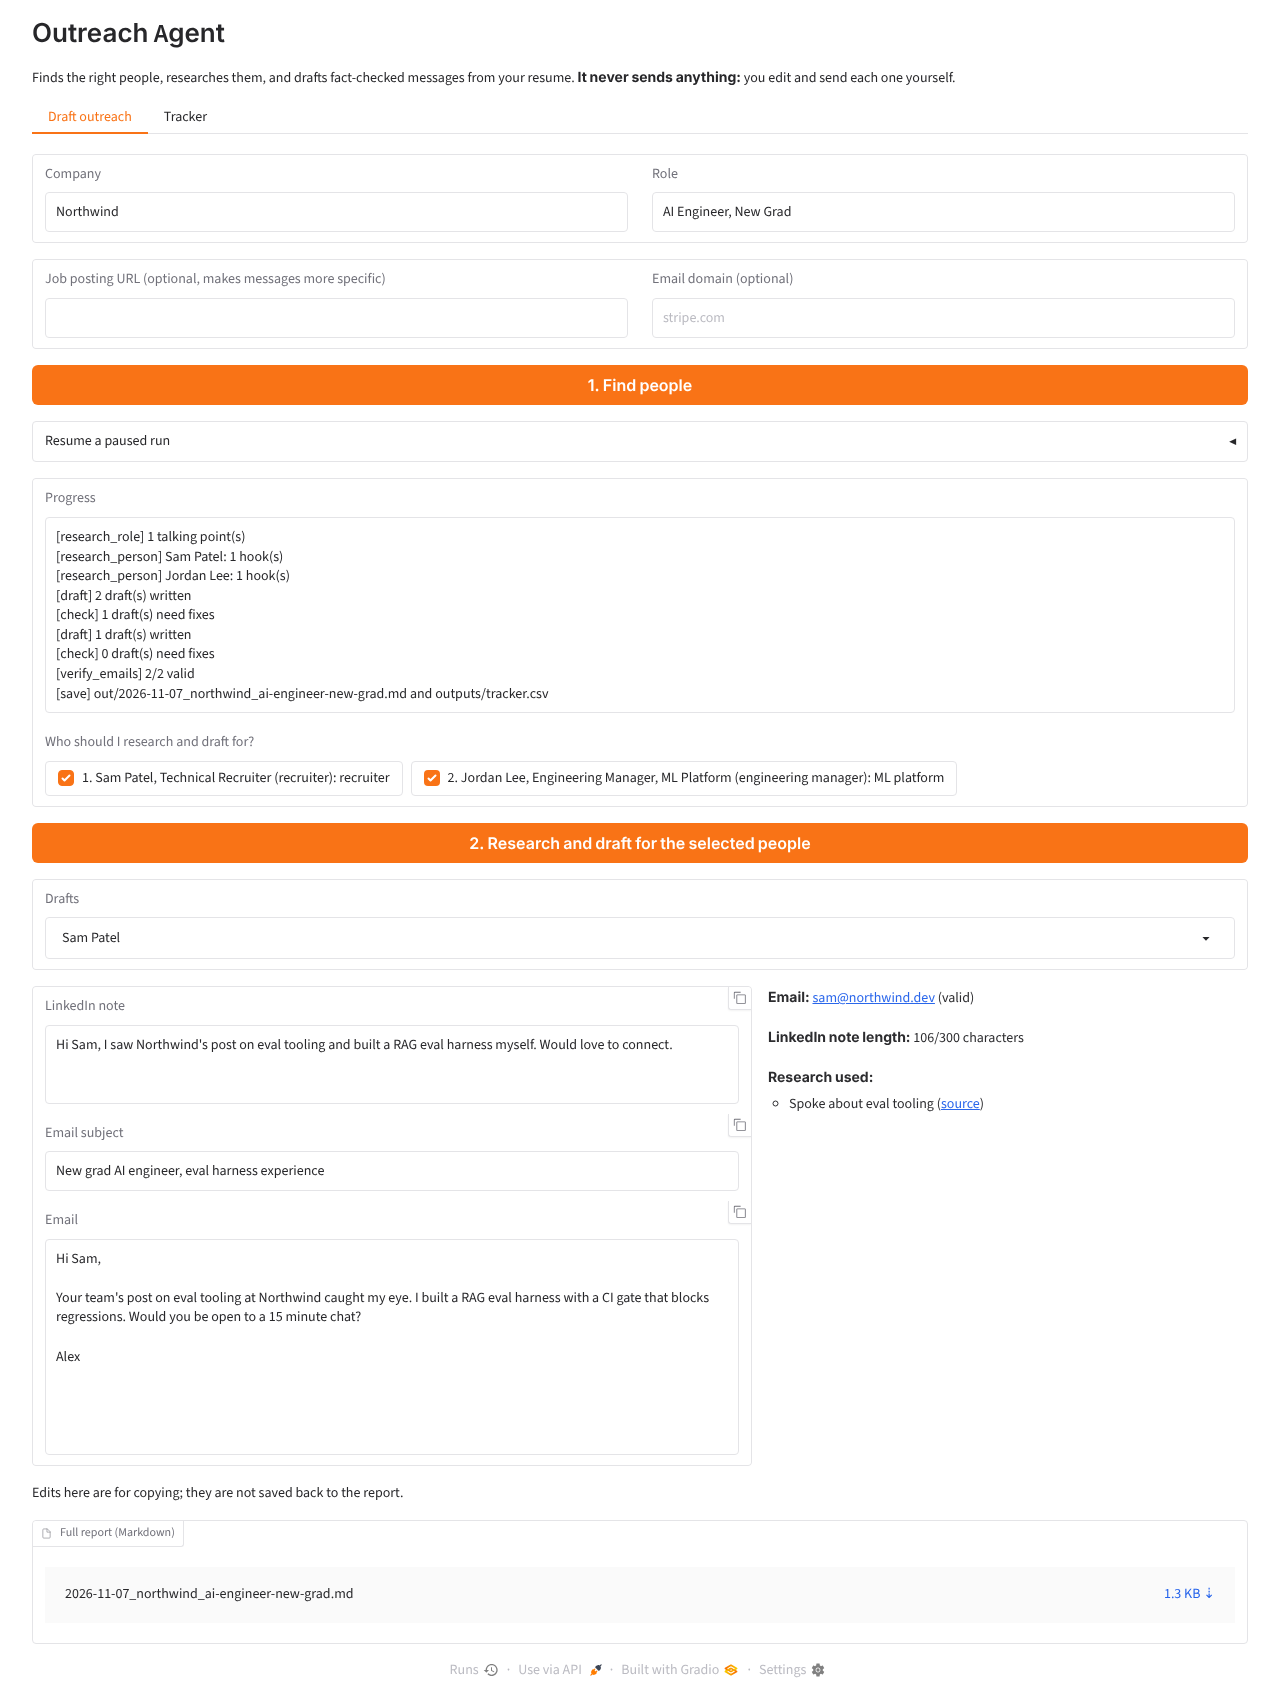
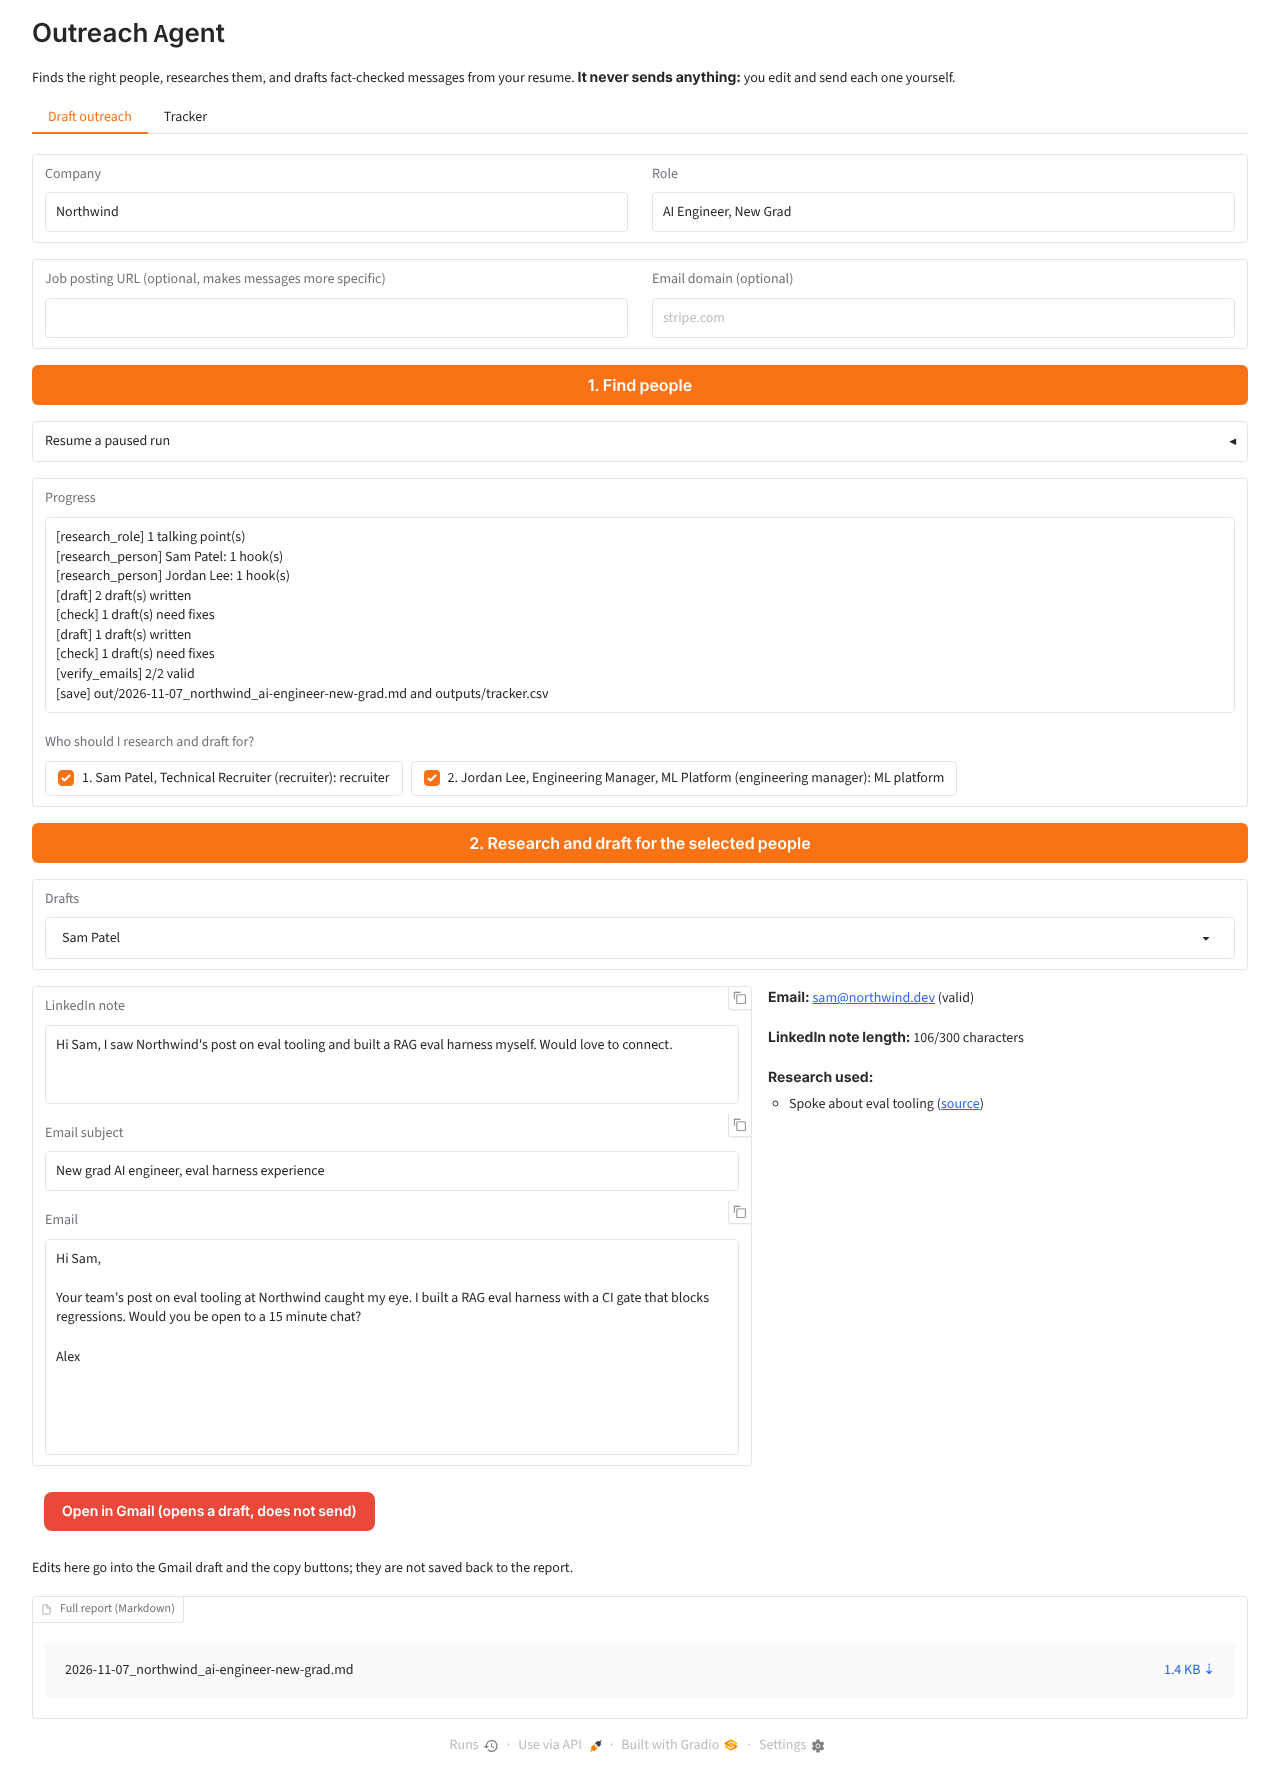
Add Open in Gmail button; require hooks to name an artifact found in the cited result
- UI: prefilled Gmail compose link built from the edited text, opens in a new tab, never sends;
  locked while the checker still flags an unedited draft; warns on unverified addresses
- Hooks now carry the artifact title, kept only if it appears in the cited result's title or snippet
- Person and draft prompts reject vague activity, pretended familiarity and intensifiers
- GMAIL_ACCOUNT setting; 4 new tests

Claude-Session: https://claude.ai/code/session_01V6XwhnjSrYYAdagCvEztPY

diff --git a/outreach_agent/ui.py b/outreach_agent/ui.py
@@ -10,6 +10,8 @@ or the command line.
 """
 
 import csv
+import html
+from urllib.parse import quote, urlencode
 from contextlib import AbstractAsyncContextManager
 from typing import Callable
 
@@ -85,6 +87,43 @@ def draft_fields(result: dict, name: str) -> tuple[str, str, str, str]:
     return note, d.get("email_subject", ""), d.get("email_body", ""), "\n\n".join(sections)
 
 
+GMAIL_COMPOSE = "https://mail.google.com/mail/"
+
+
+def gmail_compose_url(to: str, subject: str, body: str, account: str = "") -> str:
+    """A Gmail link that opens a filled-in compose window. Gmail never sends from a link: you press Send."""
+    params = {"view": "cm", "fs": "1", "to": to, "su": subject, "body": body}
+    if account:
+        params["authuser"] = account          # which signed-in Google account to open
+    return GMAIL_COMPOSE + "?" + urlencode(params, quote_via=quote)
+
+
+def compose_button(result: dict, name: str | None, subject: str, body: str, account: str = "") -> str:
+    """HTML for the 'Open in Gmail' button, or the reason it isn't available.
+    A draft the checker still flags stays locked until its subject or body has been edited."""
+    if not name:
+        return ""
+    person = next((p for p in result.get("selected", []) if p["name"] == name), {})
+    if not person.get("email"):
+        return f"<p>No email address found for {html.escape(name)}. Copy the message instead.</p>"
+    draft = result.get("drafts", {}).get(name, {})
+    flagged = result.get("feedback", {}).get(name)
+    edited = (subject, body) != (draft.get("email_subject", ""), draft.get("email_body", ""))
+    if flagged and not edited:
+        return ("<p><b>Gmail is locked for this draft:</b> the checker still flags it (see the right column). "
+                "Edit the subject or email to fix those points and the button appears.</p>")
+    notes = []
+    if flagged:
+        notes.append("You edited a flagged draft. Reread it before sending.")
+    if person.get("email_status") != "valid":
+        notes.append(f"This address is {html.escape(person.get('email_status') or 'unverified')}, so it may bounce.")
+    url = html.escape(gmail_compose_url(person["email"], subject, body, account), quote=True)
+    link = (f'<a href="{url}" target="_blank" rel="noopener noreferrer" '
+            'style="display:inline-block;padding:10px 18px;border-radius:8px;background:#ea4335;color:#fff;'
+            'font-weight:600;text-decoration:none">Open in Gmail (opens a draft, does not send)</a>')
+    return link + "".join(f"<p>{n}</p>" for n in notes)
+
+
 def tracker_rows(settings: Settings) -> list[list[str]]:
     path = settings.outputs / "tracker.csv"
     if not path.exists():
@@ -136,11 +175,18 @@ def build_app(runner: OutreachRunner):
         first = names[0] if names else None
         fields = draft_fields(result, first) if first else ("", "", "", "")
         report = result.get("report_path")
+        gmail = compose_button(result, first, fields[1], fields[2], runner.settings.gmail_account)
         return (status, gr.Column(visible=bool(names)), gr.Dropdown(choices=names, value=first), *fields,
-                report, tracker_rows(runner.settings), {**session, "result": result})
+                gmail, report, tracker_rows(runner.settings), {**session, "result": result})
 
     def on_pick(name, session):
-        return draft_fields((session or {}).get("result", {}), name) if name else ("", "", "", "")
+        result = (session or {}).get("result", {})
+        fields = draft_fields(result, name) if name else ("", "", "", "")
+        return (*fields, compose_button(result, name, fields[1], fields[2], runner.settings.gmail_account))
+
+    def on_edit(name, subject_text, body_text, session):
+        return compose_button((session or {}).get("result", {}), name, subject_text, body_text,
+                              runner.settings.gmail_account)
 
     with gr.Blocks(title="Outreach Agent") as app:
         gr.Markdown("# Outreach Agent\nFinds the right people, researches them, and drafts fact-checked "
@@ -169,9 +215,10 @@ def build_app(runner: OutreachRunner):
                         note = gr.Textbox(label="LinkedIn note", lines=3, buttons=["copy"])
                         subject = gr.Textbox(label="Email subject", buttons=["copy"])
                         body = gr.Textbox(label="Email", lines=10, buttons=["copy"])
+                        gmail = gr.HTML()
                     with gr.Column(scale=2):
                         notes = gr.Markdown()
-                gr.Markdown("Edits here are for copying; they are not saved back to the report.")
+                gr.Markdown("Edits here go into the Gmail draft and the copy buttons; they are not saved back to the report.")
                 report = gr.File(label="Full report (Markdown)")
 
         with gr.Tab("Tracker"):
@@ -182,8 +229,10 @@ def build_app(runner: OutreachRunner):
         find.click(on_find, [company, role, job_url, domain], [status, picks, draft, session])
         load.click(on_load, [run_id], [status, picks, draft, session])
         draft.click(on_draft, [picks, session],
-                    [status, drafts_box, contact, note, subject, body, notes, report, tracker, session])
-        contact.change(on_pick, [contact, session], [note, subject, body, notes])
+                    [status, drafts_box, contact, note, subject, body, notes, gmail, report, tracker, session])
+        contact.change(on_pick, [contact, session], [note, subject, body, notes, gmail])
+        subject.change(on_edit, [contact, subject, body, session], [gmail])
+        body.change(on_edit, [contact, subject, body, session], [gmail])
     return app
 
 

diff --git a/outreach_agent/prompts.py b/outreach_agent/prompts.py
@@ -14,13 +14,19 @@ For each candidate, choose a category:
 Prefer people whose title matches the role's area (e.g. ML roles -> ML/AI engineering leaders).
 Return at most {max_people} non-skip picks, best first."""
 
-PERSON_PROMPT = """From these web search results, find up to 3 specific, PROFESSIONAL hooks about {name}
-({position} at {company}) that a job seeker could mention in a short message: talks, blog posts,
-podcasts, open-source work, launches they led, interviews.
-Rules:
-- Only use results that are clearly about THIS person at THIS company. Same-name strangers are common.
-- Nothing personal (family, health, location, politics, hobbies). Professional work only.
-- Every hook must cite a URL from the results. If nothing reliable is found, return no hooks."""
+PERSON_PROMPT = """From these web search results, find up to 3 hooks about {name} ({position} at {company})
+that a job seeker could mention in a short message.
+
+A hook is a specific, checkable piece of their professional work: a talk, blog post, podcast episode,
+open-source repository, paper or launch they led. It must have a name or title, and you must copy that
+title word for word from the result into `artifact`.
+
+Not hooks (return nothing for these): job descriptions or responsibilities ("oversees engineering",
+"focuses on AI solutions"), vague activity ("participated in discussions", "is involved in"), company
+news that doesn't name this person, and anything personal (family, health, location, politics, hobbies).
+
+Only use results clearly about THIS person at THIS company; same-name strangers are common.
+Fewer hooks is better than weak ones. If nothing qualifies, return no hooks."""
 
 ROLE_PROMPT = """Summarize what a candidate should know about the "{role}" role at {company}, from the
 material below (a job posting and/or search results). Only use facts in the material, and put the
@@ -34,6 +40,9 @@ Rules:
   experience, numbers, mutual connections or familiarity ("I've followed your work for years").
 - Open with ONE specific hook about the person or their team (from the research). If there are no
   hooks, use a specific fact about the team or role instead. Never pretend to know them.
+- Refer to a hook by naming it (e.g. your post "Title"). Don't claim you watched, attended, noticed
+  or were struck by it, and don't describe it beyond what the research says.
+- Describe the candidate's work exactly as the profile does. No intensifiers ("deeply", "extensively").
 - Connect it to ONE or TWO relevant points from the candidate's resume, matched to the role.
 - End with ONE small, clear ask:
     recruiter -> whether they're the right person for the {role} role, or a short chat about fit;

diff --git a/outreach_agent/graph.py b/outreach_agent/graph.py
@@ -9,6 +9,7 @@
 import asyncio
 import hashlib
 import json
+import re
 from pathlib import Path
 
 from langgraph.graph import END, START, StateGraph
@@ -34,6 +35,24 @@ def read_resume(path: Path) -> str:
         from pypdf import PdfReader
         return "\n".join(page.extract_text() or "" for page in PdfReader(path).pages)
     return path.read_text()
+
+
+def _norm(text: str) -> str:
+    return " ".join(re.sub(r"[^\w]+", " ", text.lower()).split())
+
+
+def grounded_hooks(found: PersonResearch, results: list[dict]) -> list[dict]:
+    """Keep a hook only if the model is sure it found the right person, the cited URL was actually
+    retrieved, and the artifact's title appears in that result's title or snippet."""
+    if not found.same_person_confident:
+        return []
+    text_by_url = {r["url"]: _norm(f'{r.get("title", "")} {r.get("snippet", "")}') for r in results}
+    kept = []
+    for h in found.hooks:
+        artifact = _norm(h.artifact)
+        if h.source_url in text_by_url and len(artifact) >= 3 and artifact in text_by_url[h.source_url]:
+            kept.append(h.model_dump())
+    return kept
 
 
 def build_graph(people: Tools, research: Tools, llm: StructuredLLM, settings: Settings,
@@ -143,10 +162,7 @@ def build_graph(people: Tools, research: Tools, llm: StructuredLLM, settings: Se
             {"role": "system", "content": prompts.PERSON_PROMPT.format(
                 name=p["name"], position=p.get("position"), company=company)},
             {"role": "user", "content": json.dumps(results)}], PersonResearch)
-        # A hook must cite a URL we actually retrieved, and only if the model is sure it's the same person.
-        valid_urls = {r["url"] for r in results}
-        hooks = ([h.model_dump() for h in found.hooks if h.source_url in valid_urls]
-                 if found.same_person_confident else [])
+        hooks = grounded_hooks(found, results)
         log(f"  [research_person] {p['name']}: {len(hooks)} hook(s)")
         return {"research": [{"name": p["name"], "hooks": hooks, "summary": found.summary}]}
 

diff --git a/tests/test_ui.py b/tests/test_ui.py
@@ -61,3 +61,42 @@ def test_app_builds(runner):
 
     app = build_app(runner)
     assert app.title == "Outreach Agent"
+
+
+def test_gmail_url_encodes_everything():
+    from urllib.parse import parse_qs, urlparse
+
+    from outreach_agent.ui import gmail_compose_url
+
+    url = gmail_compose_url("a@b.dev", "Hi & welcome", "Line one\n\nLine two: 100% sure?", "me@gmail.com")
+    q = parse_qs(urlparse(url).query)
+    assert url.startswith("https://mail.google.com/mail/?")
+    assert q == {"view": ["cm"], "fs": ["1"], "to": ["a@b.dev"], "su": ["Hi & welcome"],
+                 "body": ["Line one\n\nLine two: 100% sure?"], "authuser": ["me@gmail.com"]}
+
+
+RESULT = {
+    "selected": [{"name": "Jordan Lee", "email": "jordan@northwind.dev", "email_status": "valid"},
+                 {"name": "Sam Patel", "email": None},
+                 {"name": "Casey Morgan", "email": "casey@northwind.dev", "email_status": "accept_all"}],
+    "drafts": {"Jordan Lee": {"email_subject": "Hello", "email_body": "Body"},
+               "Casey Morgan": {"email_subject": "Hi", "email_body": "Text"}},
+    "feedback": {"Jordan Lee": ["Embellished claim"]},
+}
+
+
+def test_gmail_button_locked_while_flagged_draft_is_unedited():
+    from outreach_agent.ui import compose_button
+
+    assert "locked" in compose_button(RESULT, "Jordan Lee", "Hello", "Body")
+    edited = compose_button(RESULT, "Jordan Lee", "Hello", "Body, fixed")
+    assert "mail.google.com" in edited and "Reread it" in edited and 'target="_blank"' in edited
+
+
+def test_gmail_button_without_email_or_with_unverified_email():
+    from outreach_agent.ui import compose_button
+
+    assert "No email address" in compose_button(RESULT, "Sam Patel", "", "")
+    unverified = compose_button(RESULT, "Casey Morgan", "Hi", "Text")
+    assert "mail.google.com" in unverified and "accept_all" in unverified
+    assert compose_button(RESULT, None, "", "") == ""

diff --git a/tests/test_units.py b/tests/test_units.py
@@ -73,3 +73,20 @@ def test_tracker_header_written_once(tmp_path):
     lines = (tmp_path / "tracker.csv").read_text().splitlines()
     assert lines[0].startswith("date,") and len(lines) == 3
     assert path.name == "2026-11-07_northwind_ai-engineer.md"
+
+
+def test_grounded_hooks_need_the_artifact_in_the_cited_result():
+    from outreach_agent.graph import grounded_hooks
+    from outreach_agent.schemas import Hook, PersonResearch
+
+    results = [{"url": "https://a.dev/post", "title": "Regression Testing for LLM Agents", "snippet": "A post by Jordan"},
+               {"url": "https://b.dev/team", "title": "Our team", "snippet": "Jordan oversees engineering"}]
+    hooks = [
+        Hook(artifact="regression testing for LLM agents", fact="Wrote the post", source_url="https://a.dev/post"),
+        Hook(artifact="Regression Testing for LLM Agents", fact="Cited the wrong result", source_url="https://b.dev/team"),
+        Hook(artifact="oversees engineering", fact="Oversees engineering", source_url="https://c.dev/nowhere"),
+        Hook(artifact="AI", fact="Too short to verify", source_url="https://a.dev/post"),
+    ]
+    found = PersonResearch(same_person_confident=True, hooks=hooks, summary="")
+    assert [h["fact"] for h in grounded_hooks(found, results)] == ["Wrote the post"]
+    assert grounded_hooks(found.model_copy(update={"same_person_confident": False}), results) == []

diff --git a/tests/fakes.py b/tests/fakes.py
@@ -56,8 +56,9 @@ class FakeLLM:
             results = json.loads(user)
             return PersonResearch(
                 same_person_confident=name not in self.unconfident,
-                hooks=[Hook(fact="Spoke about eval tooling", source_url=results[0]["url"]),
-                       Hook(fact="Invented fact", source_url="https://not-in-results.example")],
+                hooks=[Hook(artifact="eval tooling", fact="Spoke about eval tooling", source_url=results[0]["url"]),
+                       Hook(artifact="eval tooling", fact="Invented fact", source_url="https://not-in-results.example"),
+                       Hook(artifact="Keynote at NeurIPS", fact="Unsupported title", source_url=results[0]["url"])],
                 summary="Leads the ML platform team")
         if schema is RoleBrief:
             return RoleBrief(summary="Builds agents.", key_requirements=["Python"],

diff --git a/outreach_agent/schemas.py b/outreach_agent/schemas.py
@@ -51,8 +51,10 @@ class Shortlist(BaseModel):
 
 
 class Hook(BaseModel):
-    fact: str = Field(description="One specific, professional fact about the person, e.g. a talk or post")
-    source_url: str = Field(description="The URL the fact came from (must be one of the search results)")
+    artifact: str = Field(description="The exact title or name of the talk, post, podcast episode, repository or "
+                                      "launch, copied word for word from the search result's title or snippet")
+    fact: str = Field(description="One sentence: what the person did with that artifact, e.g. 'Wrote the post \"X\"'")
+    source_url: str = Field(description="The URL of the search result the artifact appears in")
 
 
 class PersonResearch(BaseModel):

diff --git a/outreach_agent/config.py b/outreach_agent/config.py
@@ -22,6 +22,7 @@ class Settings:
     notes_path: Path = ROOT / "profile" / "notes.md"
     max_people: int = int(os.getenv("MAX_PEOPLE", "6"))
     outputs: Path = ROOT / "outputs"
+    gmail_account: str = os.getenv("GMAIL_ACCOUNT", "")   # which signed-in Google account Gmail links open
 
     @property
     def cache_dir(self) -> Path:

diff --git a/README.md b/README.md
@@ -31,7 +31,9 @@ python -m outreach_agent.ui        # http://127.0.0.1:7860
 ```
 
 Find people, tick who to contact, then review each draft with the research and sources it used,
-copy buttons, and the LinkedIn character count. Runs are checkpointed, so a paused review can be
+copy buttons, and the LinkedIn character count. **Open in Gmail** opens a filled-in compose window in
+a new tab (recipient, subject and your edited text); you press Send. It stays locked for a draft the
+checker still flags until you edit it. Set `GMAIL_ACCOUNT` if you're signed in to several Google accounts. Runs are checkpointed, so a paused review can be
 picked up later from the UI or the command line. The screenshot uses the test fakes (fictional people).
 
 ![Outreach Agent UI](docs/ui.png)
@@ -66,8 +68,8 @@ graph TD
   state is checkpointed in SQLite, so a paused review survives closing the terminal
   (`--resume <run id>`).
 - **Grounding is enforced in code, not just asked for in the prompt.** A hook about a person is kept
-  only if its source URL was among the search results actually retrieved and the model says it is
-  confident the results are about that person.
+  only if the model is confident the results are about that person, its source URL was actually
+  retrieved, and the named artifact (talk, post, repository) appears in that result's title or snippet.
 - **Two layer checking.** Deterministic rules run first (free), then a model review compares every
   claim with the resume, the research and the role brief. Only failing drafts are redrafted, once.
 - **Graceful degradation.** If Hunter can't resolve the company name, ranked fallback domains are tried;
@@ -96,7 +98,7 @@ python -m evals.run_checker_eval --repeats 3      # with the model; also measure
 ```bash
 python -m venv .venv && source .venv/bin/activate
 pip install -e ".[dev]"
-python -m pytest -q                      # 42 offline tests: fake model and MCP servers, no keys
+python -m pytest -q                      # 46 offline tests: fake model and MCP servers, no keys
 cp .env.example .env                     # OpenAI, Hunter.io and Tavily keys
 ```
 
